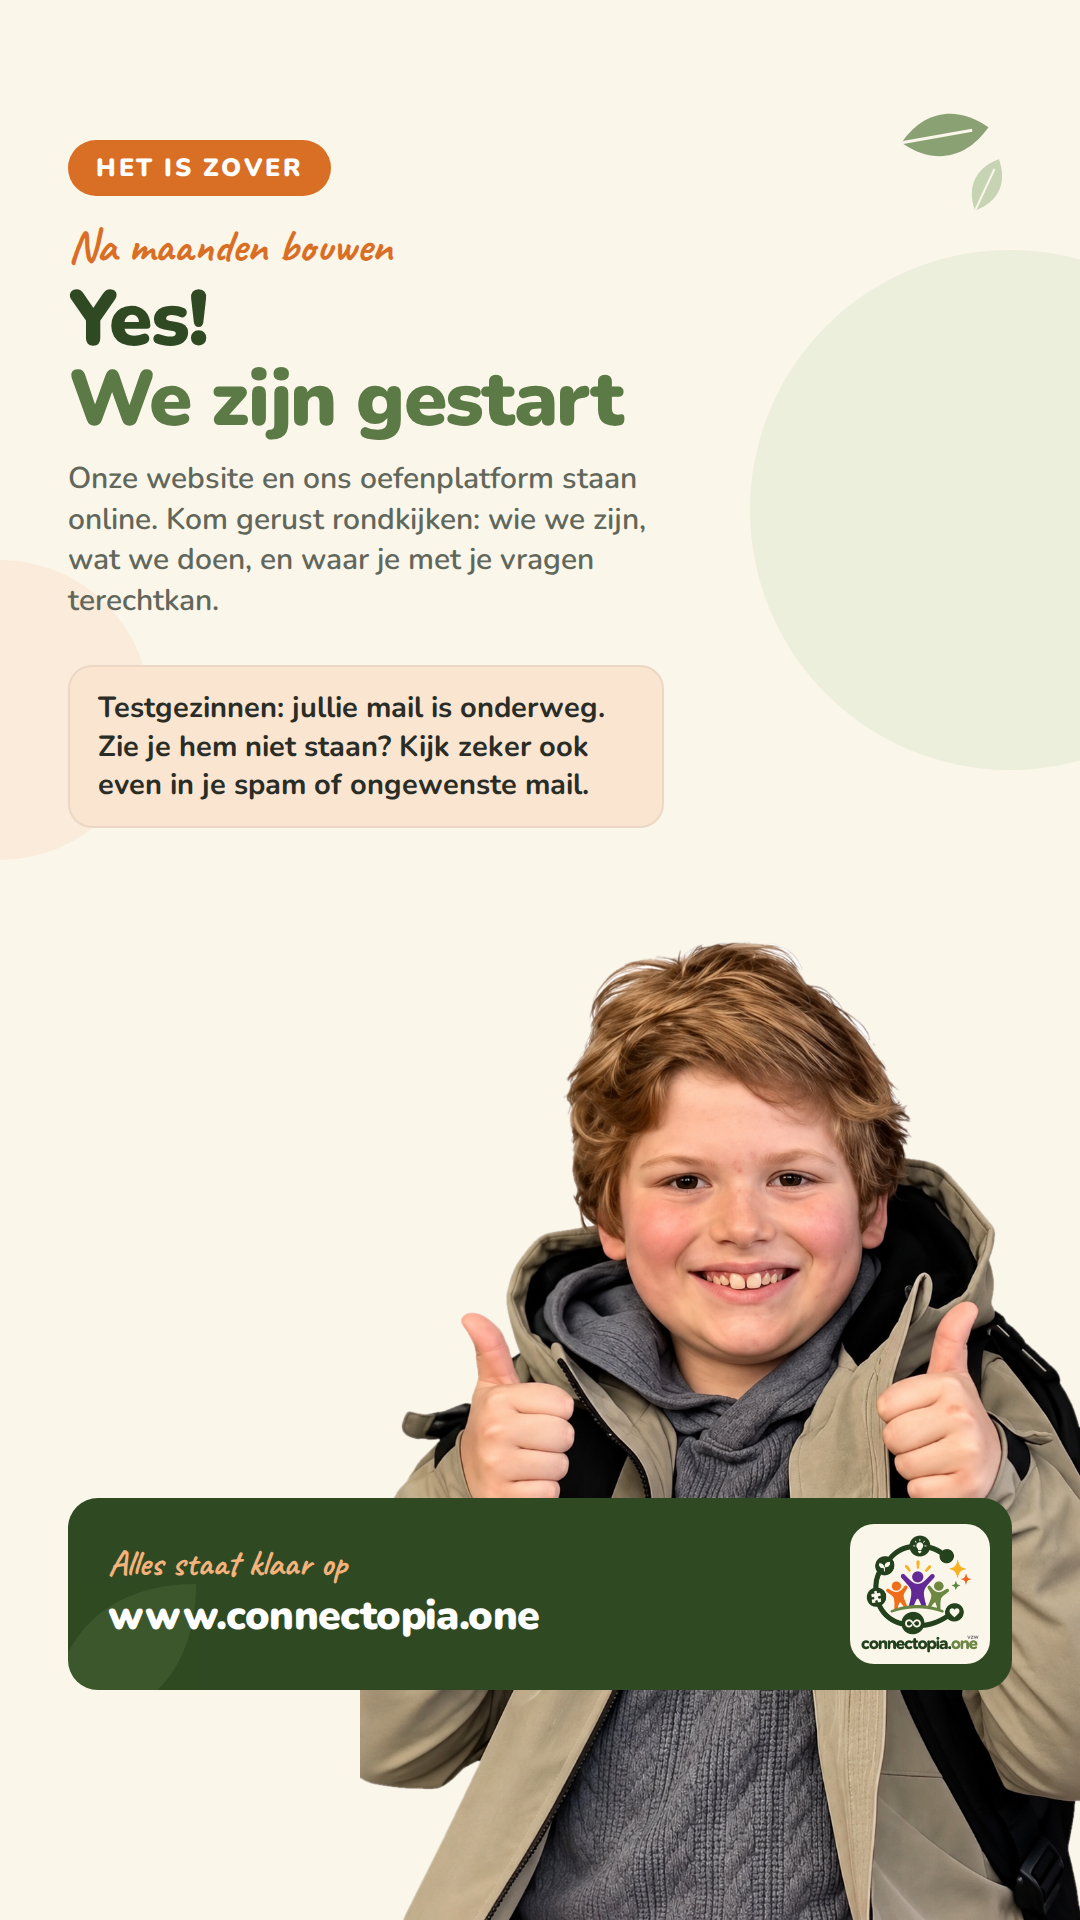
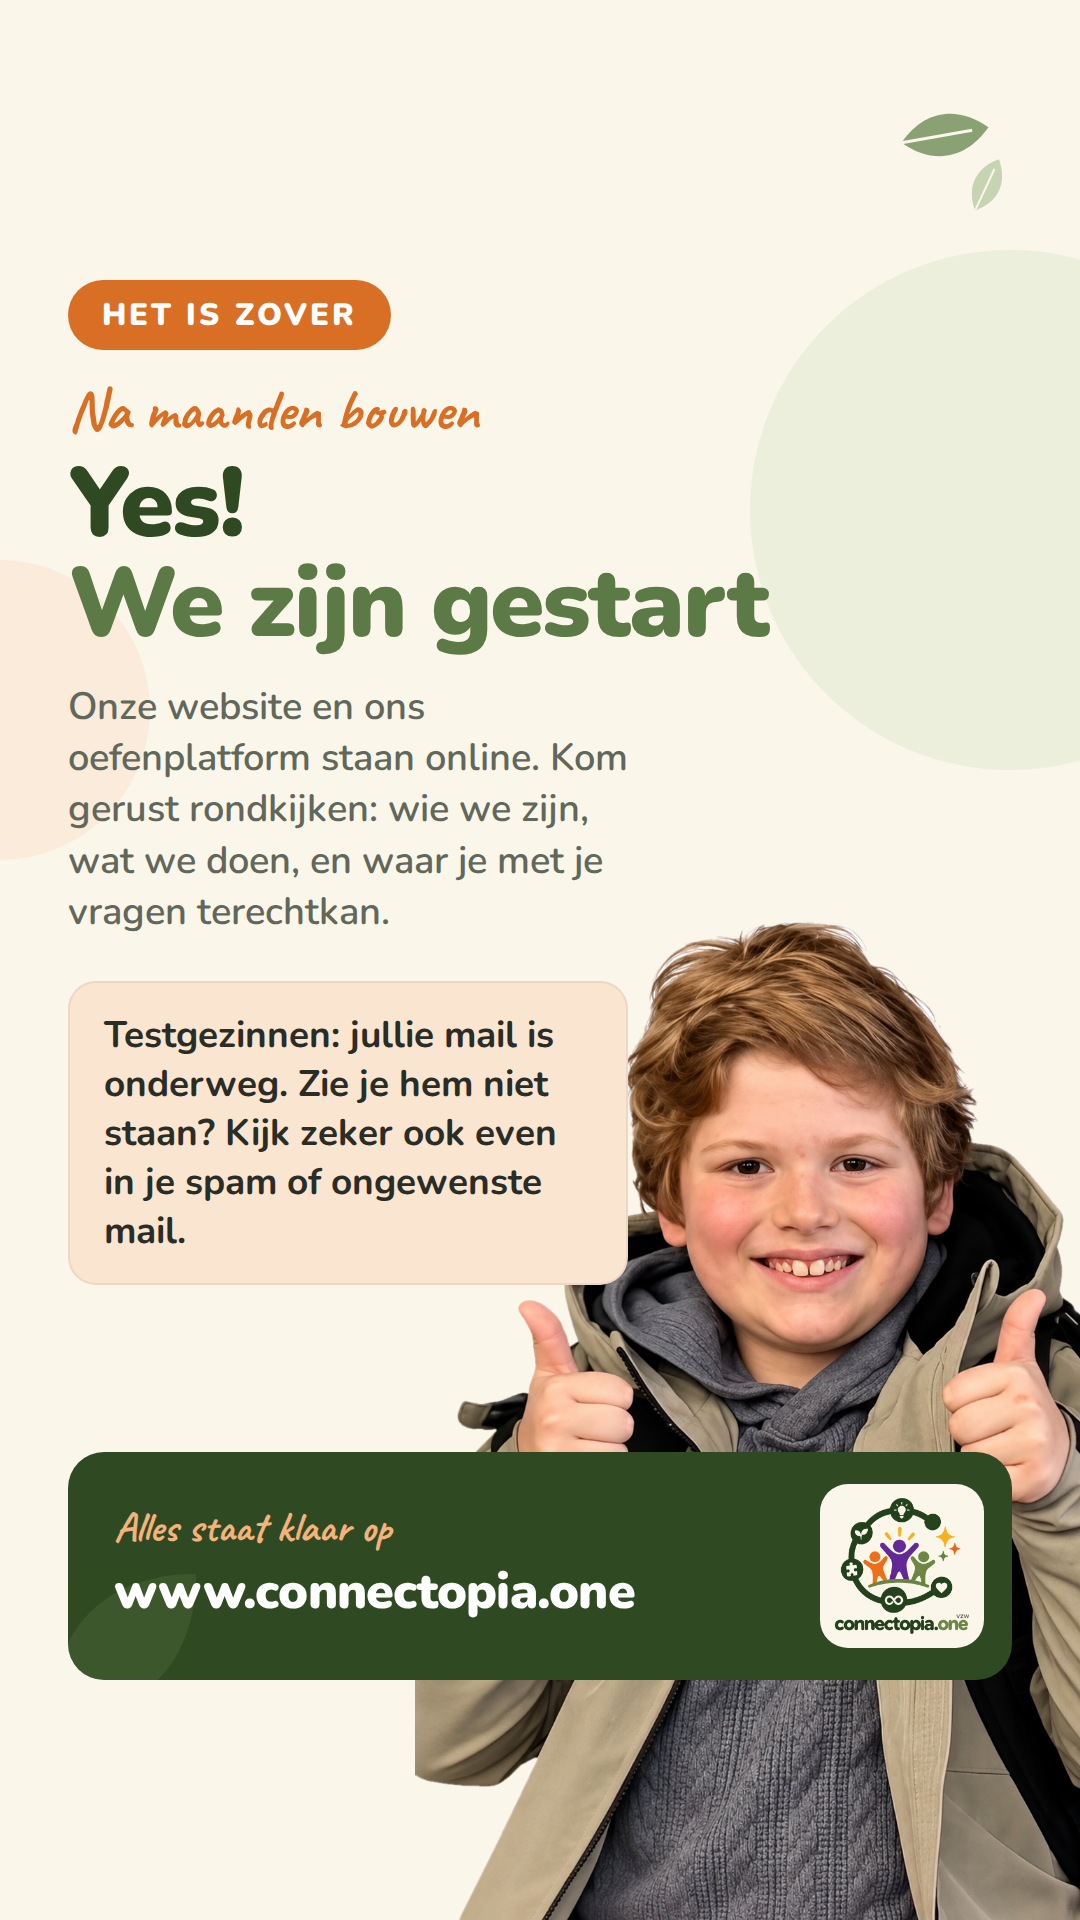
Verhaalformaat: randen vrijhouden en grotere letters
De 1080x1920-versie van "we zijn gestart" hield te weinig rand over.
Facebook en Instagram leggen in een verhaal hun eigen dingen over het
beeld: bovenaan de paginanaam en het kruisje, onderaan de antwoordbalk en
soms een knop. Alles wat gelezen moet worden blijft nu tussen 280 en 1680.

De letters stonden ook te klein voor dat formaat, waardoor er een gat
viel tussen de tekst en de groene balk. Titel, tussenzin, kader en balk
zijn een maat groter; de figuur groeide mee zodat zijn duimen boven de
balk blijven, en schuift een stuk naar rechts zodat het kader niet over
zijn gezicht valt.

Claude-Session: https://claude.ai/code/session_01RndGgwwLWLzzwjpvUTuHxJ

diff --git a/social/posts/bron/stijl.css b/social/posts/bron/stijl.css
@@ -161,15 +161,52 @@ body.metfiguur .mid { max-width: 596px; }
   figuur mag mee groeien, hij blijft toch in de hoek staan.
 */
 /*
-  De onderrand is met opzet breed: Facebook legt in een verhaal onderaan zijn
-  eigen balk over het beeld, en daar mag de groene balk niet onder verdwijnen.
+  De randen zijn met opzet breed. Facebook en Instagram leggen in een verhaal
+  hun eigen dingen over je beeld: bovenaan je paginanaam, je profielfoto en
+  het kruisje, onderaan de antwoordbalk, en bij een gesponsord verhaal ook nog
+  een knop. Alles wat gelezen moet worden, blijft daarom tussen 280 en 1620,
+  ruwweg de bovenste en onderste 15 procent vrij. De figuur mag er wel
+  doorlopen: dat is beeld, geen tekst, en een stuk jas achter een knop stoort
+  niemand.
 */
-body.verhaal { height: 1920px; padding: 140px 68px 230px; }
-body.verhaal .figuur { height: 980px; }
+body.verhaal { height: 1920px; padding: 280px 68px 240px; }
+/*
+  De figuur is hier groter dan op het vierkant, en niet om hem mooier te
+  maken: staat hij kleiner, dan zakken zijn duimen achter de groene balk. Het
+  beeld gaat net over die duimen, dus die moeten er boven blijven.
+*/
+body.verhaal .figuur { height: 1000px; }
 /*
   Het middenstuk zweeft niet in het midden maar blijft onder de kop hangen.
   Zo valt de lege ruimte lager, waar de figuur staat, en niet als een gat
   tussen de tekst en het kader.
 */
 body.verhaal .mid { margin-top: 44px; padding: 0; }
+
+/*
+  Grotere letters dan op het vierkant. Een verhaal wordt op een gsm bekeken
+  terwijl iemand doorscrolt, vaak met een duim al klaar om weg te vegen: wat
+  hij in een halve seconde niet leest, leest hij niet. Het blad is hier bijna
+  dubbel zo hoog als het vierkant, dus die ruimte is er ook gewoon.
+*/
+body.verhaal .pil { font-size: 31px; padding: 14px 34px; }
+body.verhaal .kop .hand { font-size: 58px; margin-top: 30px; }
+body.verhaal h1 { font-size: 98px; margin-top: 14px; }
+body.verhaal .kop p { font-size: 38px; margin-top: 26px; }
+body.verhaal .nadruk { font-size: 37px; padding: 28px 34px; border-radius: 28px; }
+body.verhaal .actie { padding: 32px 28px 32px 46px; border-radius: 36px; }
+body.verhaal .actie .hand { font-size: 42px; }
+body.verhaal .actie .url { font-size: 50px; }
+body.verhaal .actie .logo { height: 164px; width: 164px; border-radius: 28px; }
+body.verhaal .actie .logo img { height: 142px; }
+
+/*
+  De tekstkolom is smaller dan op het vierkant en de figuur schuift een stuk
+  naar rechts, deels buiten het blad. Zonder dat loopt de onderkant van het
+  kader over zijn gezicht: hij staat hier hoger, want zijn duimen moeten boven
+  de groene balk blijven.
+*/
+body.verhaal.metfiguur .kop p,
+body.verhaal.metfiguur .mid { max-width: 560px; }
+body.verhaal .figuur { right: -70px; }
 
